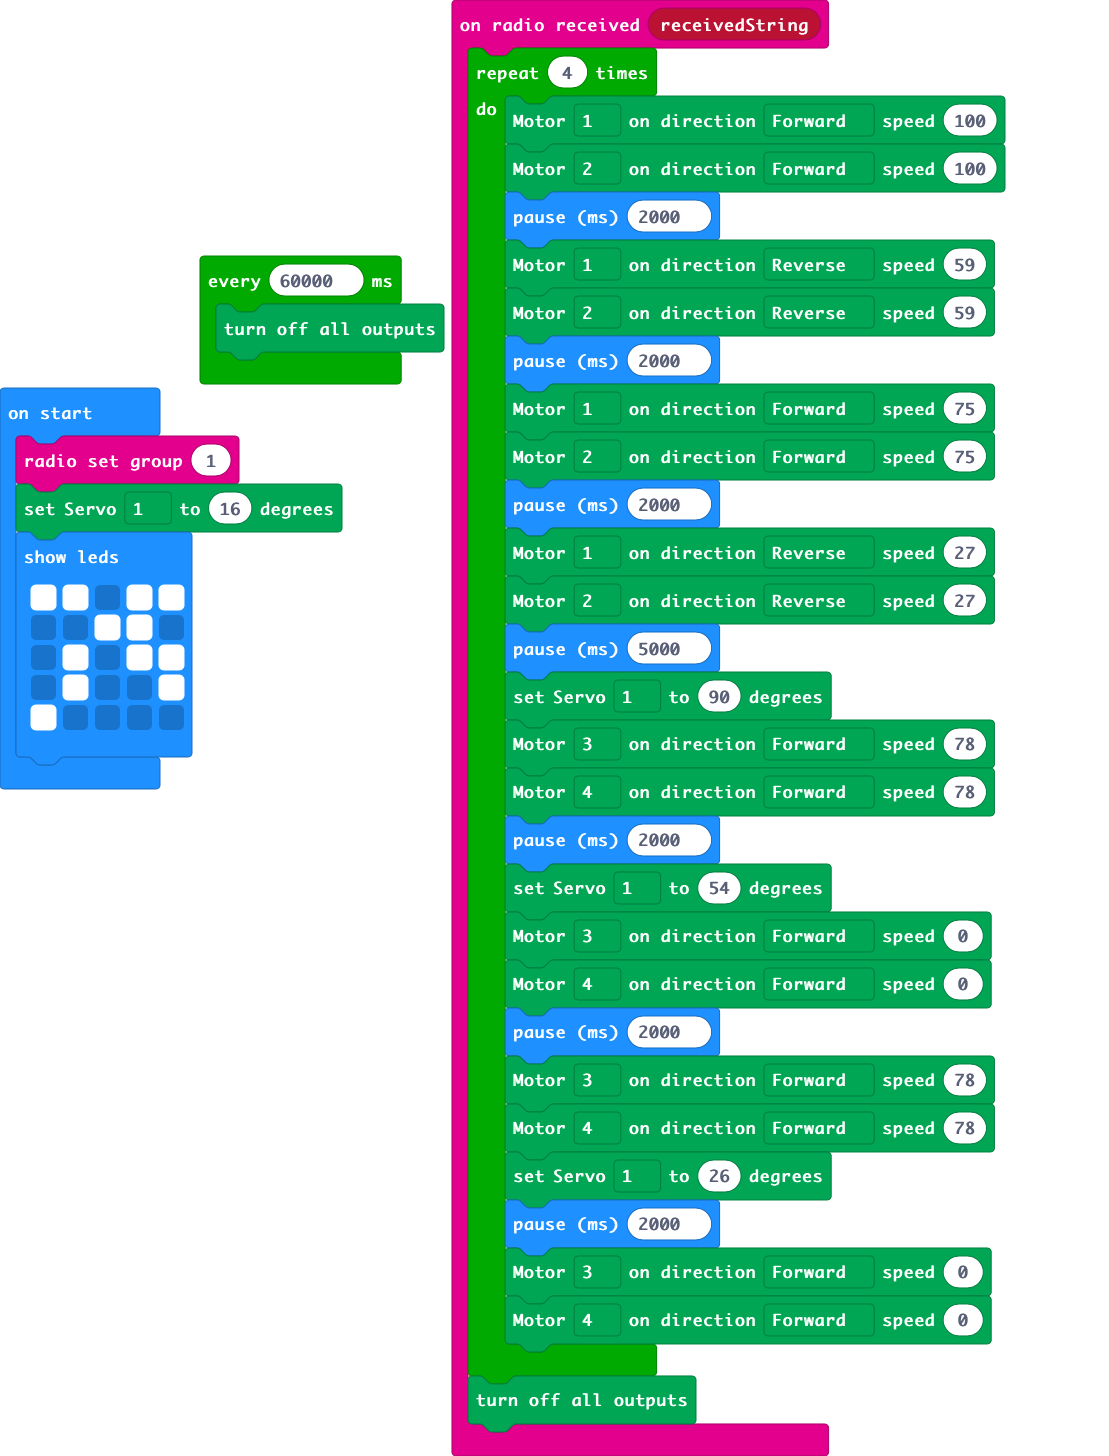
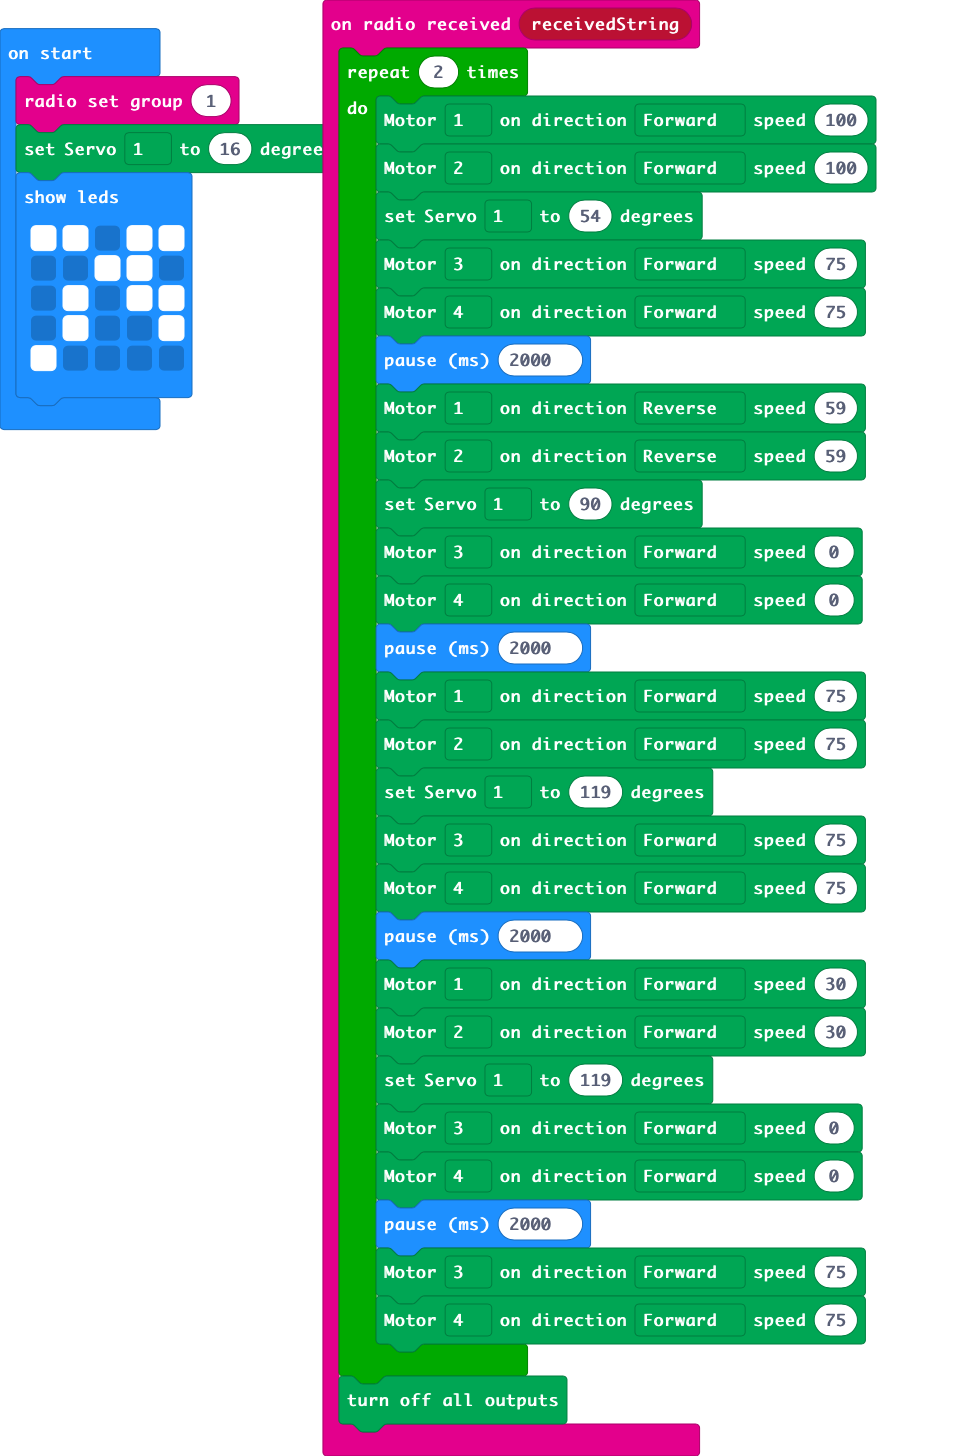
Update main.blocks, main.ts

diff --git a/main.ts b/main.ts
@@ -1,31 +1,31 @@
 radio.onReceivedString(function (receivedString) {
-    for (let index = 0; index < 4; index++) {
+    for (let index = 0; index < 2; index++) {
         Kitronik_Robotics_Board.motorOn(Kitronik_Robotics_Board.Motors.Motor1, Kitronik_Robotics_Board.MotorDirection.Forward, 100)
         Kitronik_Robotics_Board.motorOn(Kitronik_Robotics_Board.Motors.Motor2, Kitronik_Robotics_Board.MotorDirection.Forward, 100)
+        Kitronik_Robotics_Board.servoWrite(Kitronik_Robotics_Board.Servos.Servo1, 54)
+        Kitronik_Robotics_Board.motorOn(Kitronik_Robotics_Board.Motors.Motor3, Kitronik_Robotics_Board.MotorDirection.Forward, 75)
+        Kitronik_Robotics_Board.motorOn(Kitronik_Robotics_Board.Motors.Motor4, Kitronik_Robotics_Board.MotorDirection.Forward, 75)
         basic.pause(2000)
         Kitronik_Robotics_Board.motorOn(Kitronik_Robotics_Board.Motors.Motor1, Kitronik_Robotics_Board.MotorDirection.Reverse, 59)
         Kitronik_Robotics_Board.motorOn(Kitronik_Robotics_Board.Motors.Motor2, Kitronik_Robotics_Board.MotorDirection.Reverse, 59)
+        Kitronik_Robotics_Board.servoWrite(Kitronik_Robotics_Board.Servos.Servo1, 90)
+        Kitronik_Robotics_Board.motorOn(Kitronik_Robotics_Board.Motors.Motor3, Kitronik_Robotics_Board.MotorDirection.Forward, 0)
+        Kitronik_Robotics_Board.motorOn(Kitronik_Robotics_Board.Motors.Motor4, Kitronik_Robotics_Board.MotorDirection.Forward, 0)
         basic.pause(2000)
         Kitronik_Robotics_Board.motorOn(Kitronik_Robotics_Board.Motors.Motor1, Kitronik_Robotics_Board.MotorDirection.Forward, 75)
         Kitronik_Robotics_Board.motorOn(Kitronik_Robotics_Board.Motors.Motor2, Kitronik_Robotics_Board.MotorDirection.Forward, 75)
+        Kitronik_Robotics_Board.servoWrite(Kitronik_Robotics_Board.Servos.Servo1, 119)
+        Kitronik_Robotics_Board.motorOn(Kitronik_Robotics_Board.Motors.Motor3, Kitronik_Robotics_Board.MotorDirection.Forward, 75)
+        Kitronik_Robotics_Board.motorOn(Kitronik_Robotics_Board.Motors.Motor4, Kitronik_Robotics_Board.MotorDirection.Forward, 75)
         basic.pause(2000)
-        Kitronik_Robotics_Board.motorOn(Kitronik_Robotics_Board.Motors.Motor1, Kitronik_Robotics_Board.MotorDirection.Reverse, 27)
-        Kitronik_Robotics_Board.motorOn(Kitronik_Robotics_Board.Motors.Motor2, Kitronik_Robotics_Board.MotorDirection.Reverse, 27)
-        basic.pause(5000)
-        Kitronik_Robotics_Board.servoWrite(Kitronik_Robotics_Board.Servos.Servo1, 90)
-        Kitronik_Robotics_Board.motorOn(Kitronik_Robotics_Board.Motors.Motor3, Kitronik_Robotics_Board.MotorDirection.Forward, 78)
-        Kitronik_Robotics_Board.motorOn(Kitronik_Robotics_Board.Motors.Motor4, Kitronik_Robotics_Board.MotorDirection.Forward, 78)
-        basic.pause(2000)
-        Kitronik_Robotics_Board.servoWrite(Kitronik_Robotics_Board.Servos.Servo1, 54)
+        Kitronik_Robotics_Board.motorOn(Kitronik_Robotics_Board.Motors.Motor1, Kitronik_Robotics_Board.MotorDirection.Forward, 30)
+        Kitronik_Robotics_Board.motorOn(Kitronik_Robotics_Board.Motors.Motor2, Kitronik_Robotics_Board.MotorDirection.Forward, 30)
+        Kitronik_Robotics_Board.servoWrite(Kitronik_Robotics_Board.Servos.Servo1, 119)
         Kitronik_Robotics_Board.motorOn(Kitronik_Robotics_Board.Motors.Motor3, Kitronik_Robotics_Board.MotorDirection.Forward, 0)
         Kitronik_Robotics_Board.motorOn(Kitronik_Robotics_Board.Motors.Motor4, Kitronik_Robotics_Board.MotorDirection.Forward, 0)
         basic.pause(2000)
-        Kitronik_Robotics_Board.motorOn(Kitronik_Robotics_Board.Motors.Motor3, Kitronik_Robotics_Board.MotorDirection.Forward, 78)
-        Kitronik_Robotics_Board.motorOn(Kitronik_Robotics_Board.Motors.Motor4, Kitronik_Robotics_Board.MotorDirection.Forward, 78)
-        Kitronik_Robotics_Board.servoWrite(Kitronik_Robotics_Board.Servos.Servo1, 26)
-        basic.pause(2000)
-        Kitronik_Robotics_Board.motorOn(Kitronik_Robotics_Board.Motors.Motor3, Kitronik_Robotics_Board.MotorDirection.Forward, 0)
-        Kitronik_Robotics_Board.motorOn(Kitronik_Robotics_Board.Motors.Motor4, Kitronik_Robotics_Board.MotorDirection.Forward, 0)
+        Kitronik_Robotics_Board.motorOn(Kitronik_Robotics_Board.Motors.Motor3, Kitronik_Robotics_Board.MotorDirection.Forward, 75)
+        Kitronik_Robotics_Board.motorOn(Kitronik_Robotics_Board.Motors.Motor4, Kitronik_Robotics_Board.MotorDirection.Forward, 75)
     }
     Kitronik_Robotics_Board.allOff()
 })
@@ -38,6 +38,3 @@ basic.showLeds(`
     . # . . #
     # . . . .
     `)
-loops.everyInterval(60000, function () {
-    Kitronik_Robotics_Board.allOff()
-})
